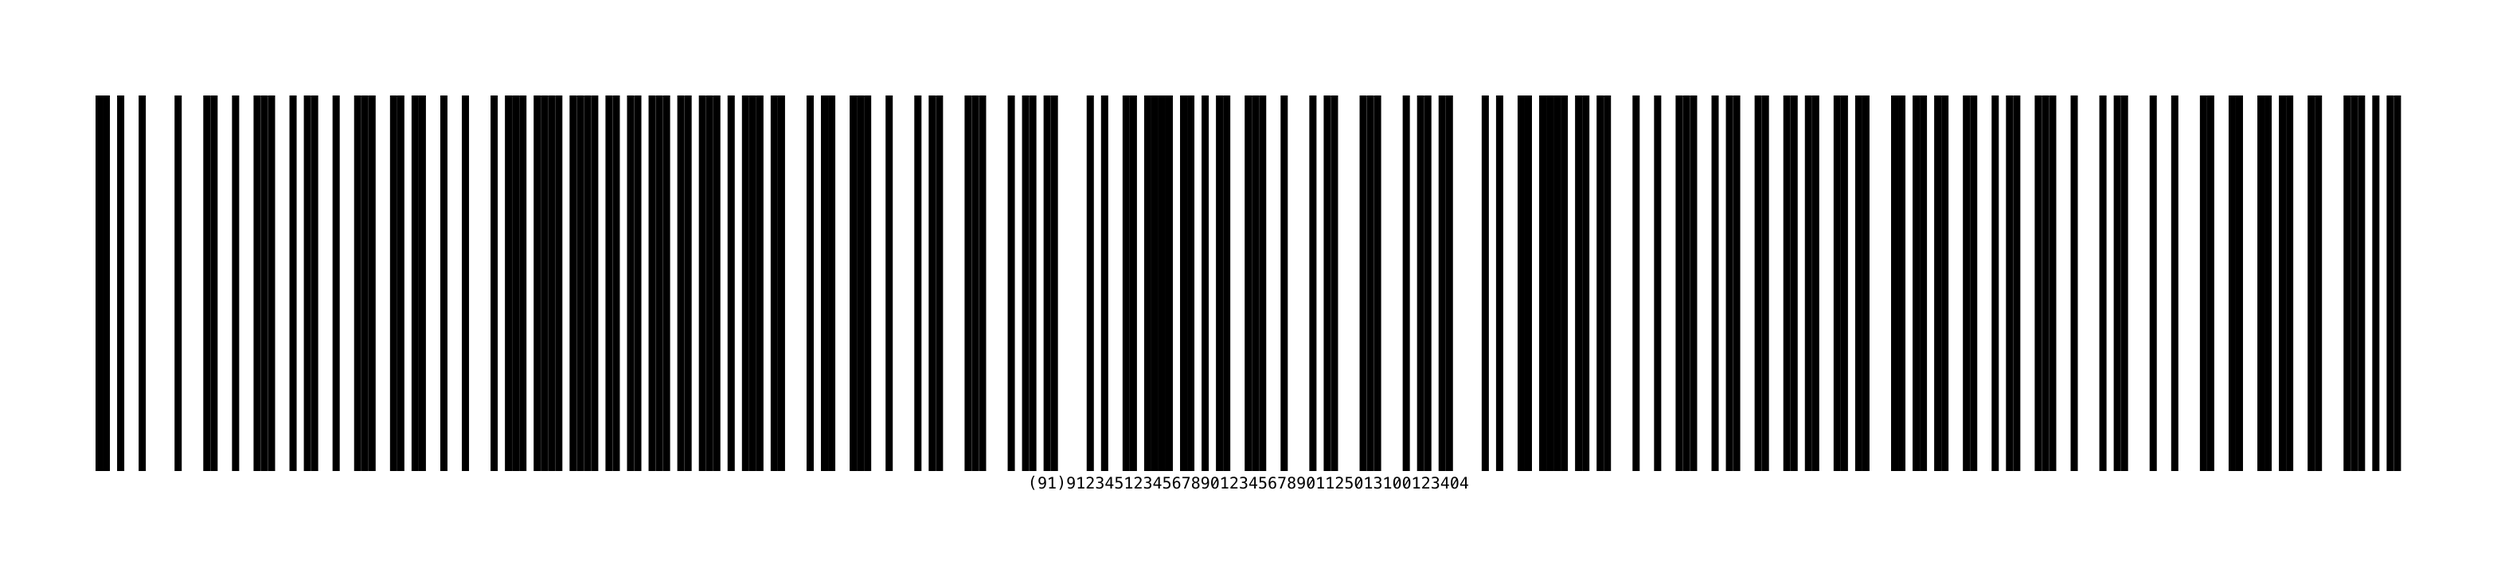
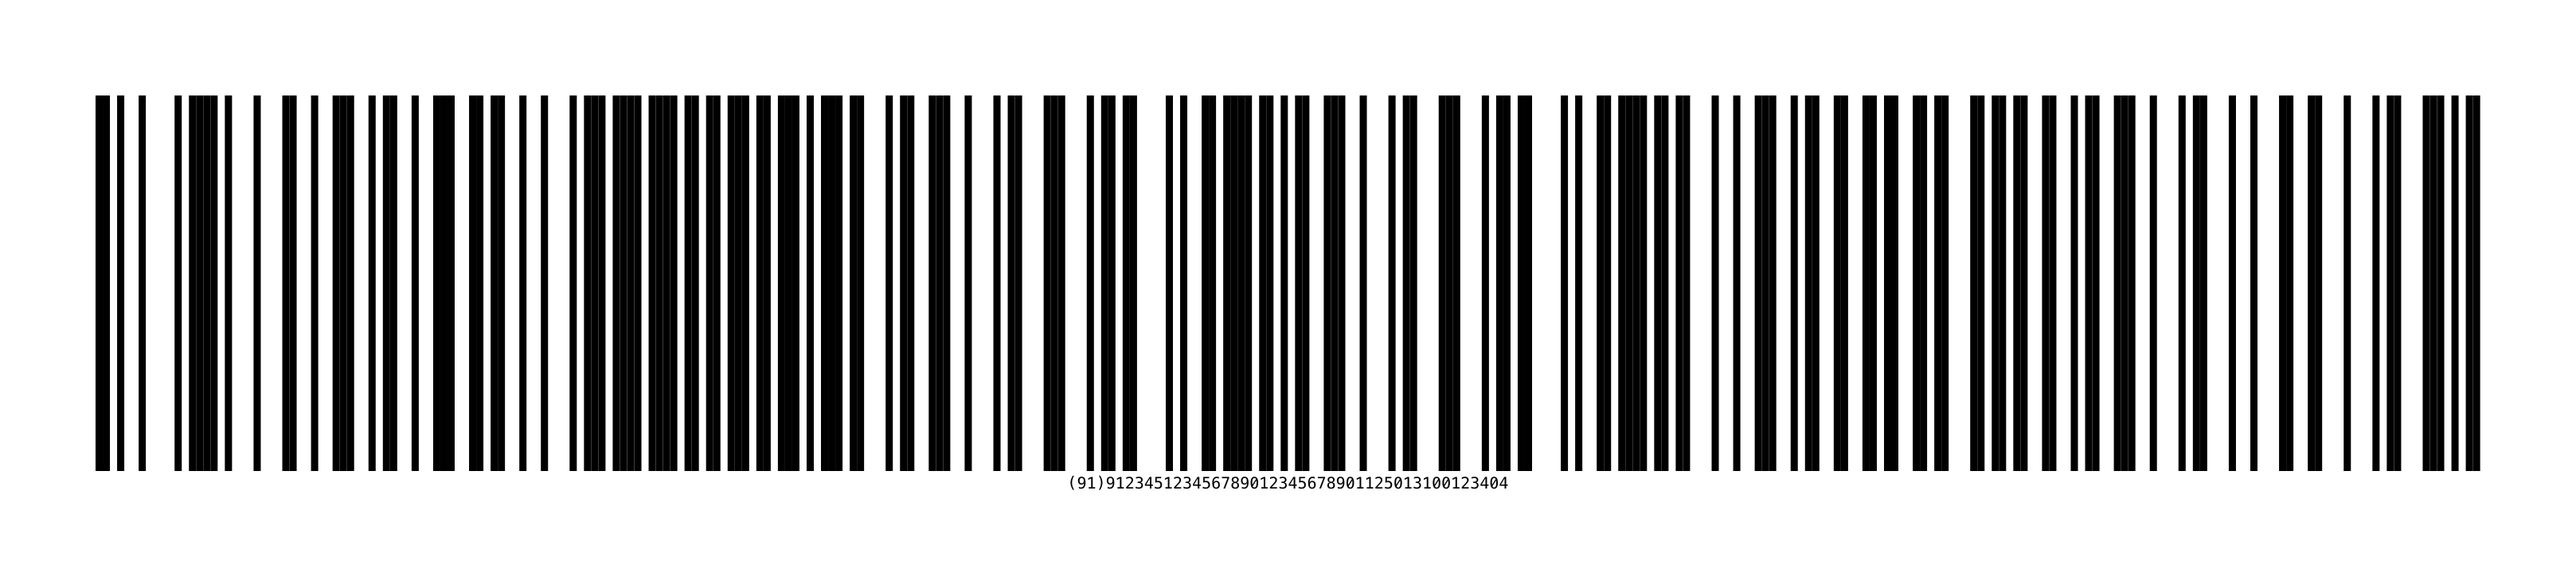
バーコード生成機能の改善と出力設定の調整

diff --git a/src/index.ts b/src/index.ts
@@ -6,23 +6,26 @@
  */
 
 // Import required libraries
-import { createCanvas } from 'canvas';
-import JsBarcode from 'jsbarcode';
-import fs from 'fs';
-import path from 'path';
+import { createCanvas } from "canvas";
+import fs from "fs";
+import JsBarcode from "jsbarcode";
+import path from "path";
 
 // Define the text to encode in the barcode
-const barcodeText = '12345678';
+const barcodeText = "\u00F1(91)912345123456789012345678901125013100123404";
 
 // Define the output file path
-const outputFilePath = path.join(__dirname, '..', 'barcode.png');
+const outputFilePath = path.join(__dirname, "..", "barcode.png");
 
 /**
  * Generate a barcode and save it as a PNG file
  * @param text - Text to encode in the barcode
  * @param outputPath - Path where the PNG file will be saved
  */
-async function generateBarcode(text: string, outputPath: string): Promise<void> {
+async function generateBarcode(
+  text: string,
+  outputPath: string
+): Promise<void> {
   try {
     console.log(`Generating barcode for text: ${text}`);
 
@@ -31,35 +34,34 @@ async function generateBarcode(text: string, outputPath: string): Promise<void> 
 
     // Generate the barcode on the canvas
     JsBarcode(canvas, text, {
-      format: 'CODE128', // Barcode format (CODE128 supports alphanumeric)
-      width: 2,          // Width of the bars
-      height: 100,       // Height of the barcode
-      displayValue: true, // Show the text below the barcode
-      text: text,        // Text to display (can be different from encoded value)
-      fontOptions: 'bold', // Font style
-      fontSize: 18,      // Font size
-      margin: 10,        // Margin around the barcode
+      format: "CODE128C", // CODE128C を明示
+      width: 9.02, // 1モジュールの幅（1200dpi換算）
+      height: 472, // 10mm = 約472px（1200dpi）
+      displayValue: true, // 人間が読めるテキストを表示
+      textAlign: "center",
+      margin: 120, // クワイエットゾーン（左右 2.54mm × 1200dpi ≈ 120px）
+      ean128: true, // GS1-128 を使用
     });
 
     // Convert canvas to a PNG buffer
-    const buffer = canvas.toBuffer('image/png');
+    const buffer = canvas.toBuffer("image/png");
 
     // Save the buffer to a file
     fs.writeFileSync(outputPath, buffer);
 
     console.log(`Barcode saved successfully at: ${outputPath}`);
   } catch (error) {
-    console.error('Error generating barcode:', error);
+    console.error("Error generating barcode:", error);
   }
 }
 
 // Generate the barcode and handle the promise
 generateBarcode(barcodeText, outputFilePath)
   .then(() => {
-    console.log('Barcode generation process completed.');
+    console.log("Barcode generation process completed.");
   })
   .catch((error) => {
-    console.error('Failed to generate barcode:', error);
+    console.error("Failed to generate barcode:", error);
     process.exit(1);
   });
 
